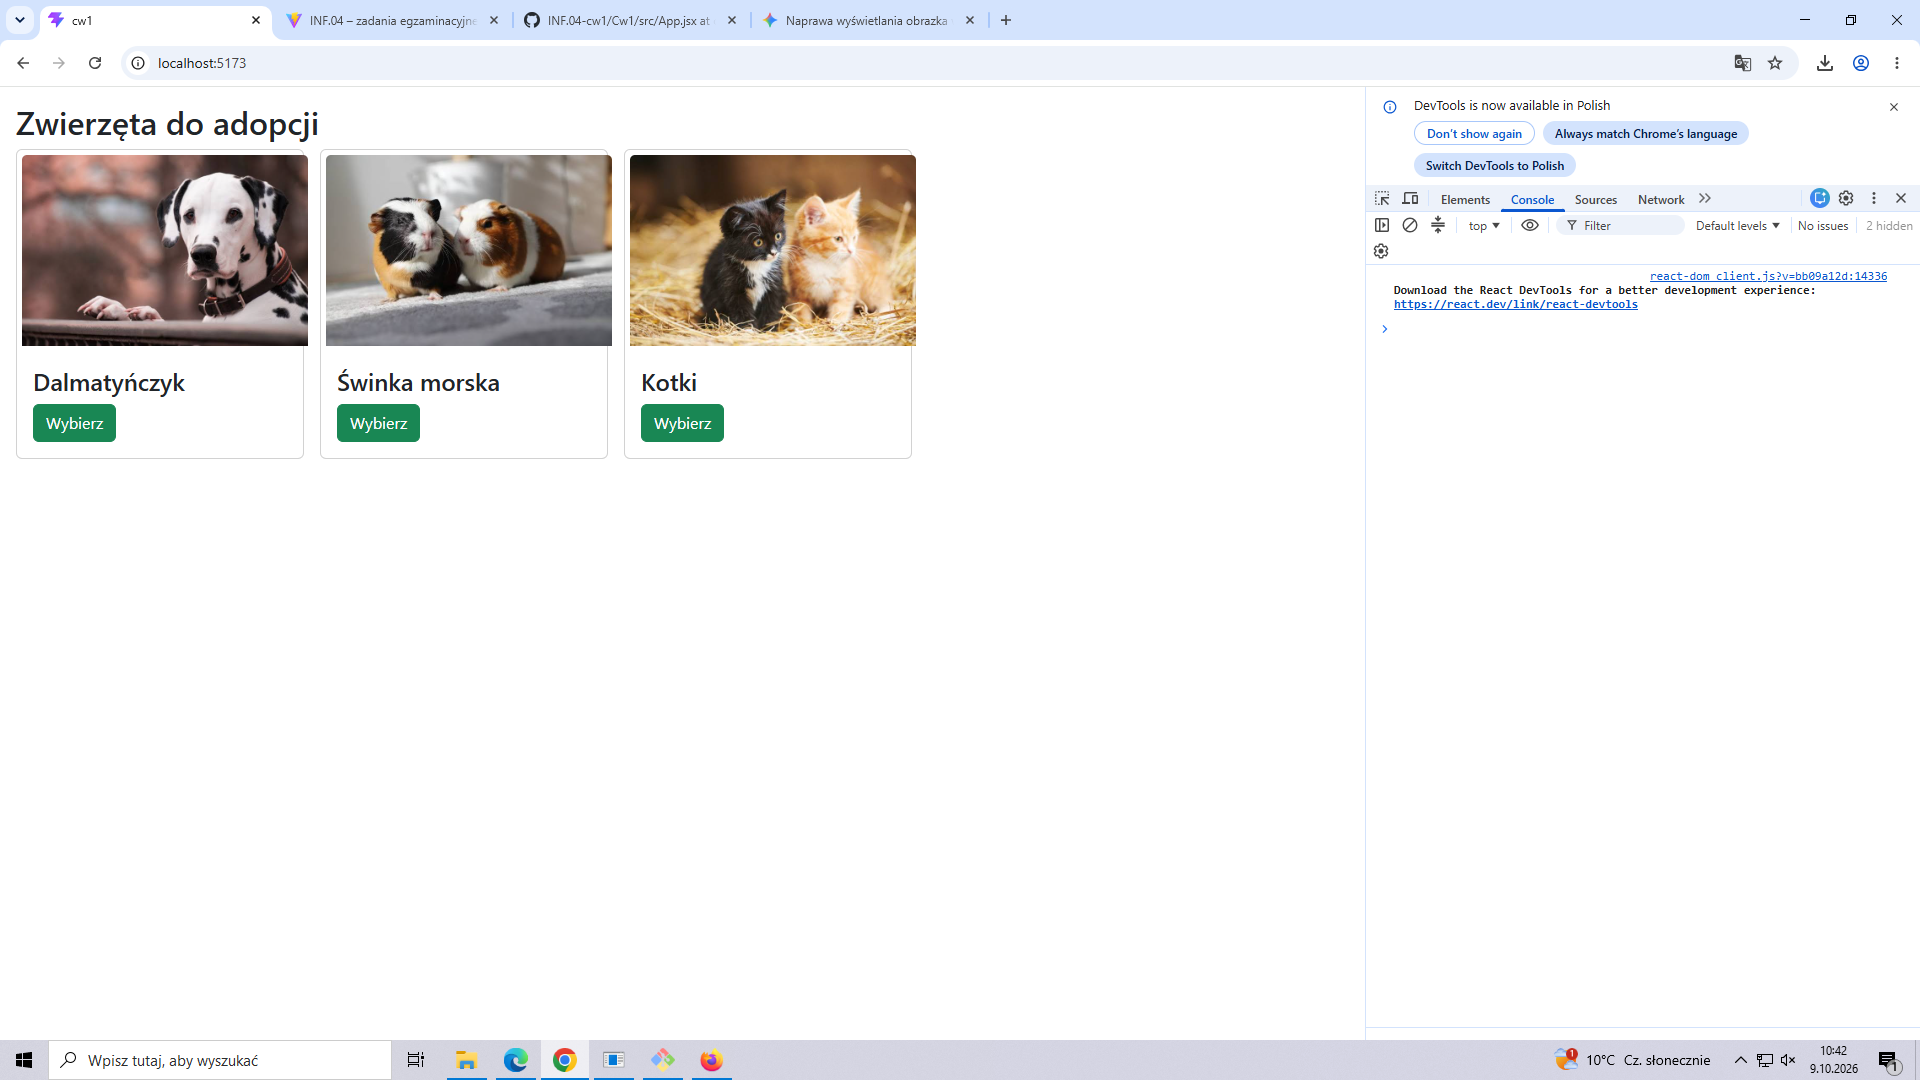
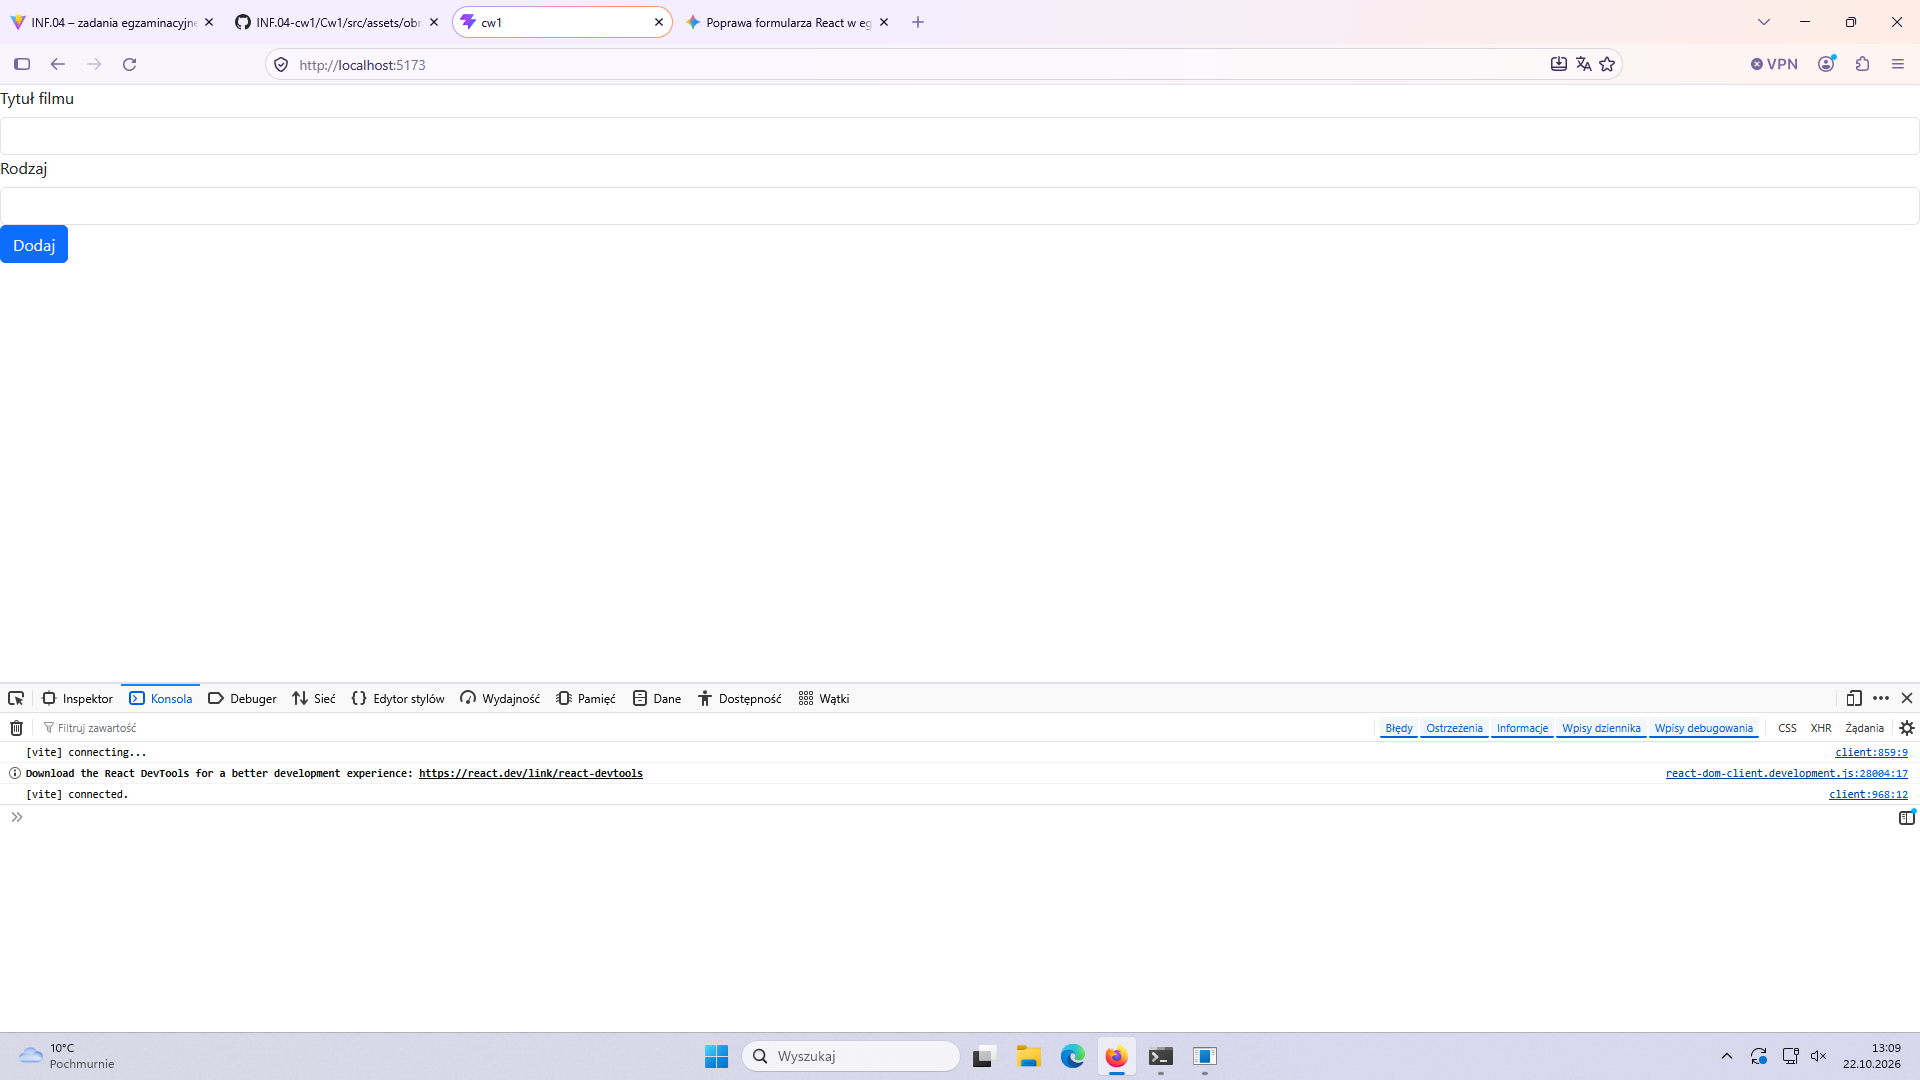
zrzuty

diff --git a/Cw1/src/App.jsx b/Cw1/src/App.jsx
@@ -6,13 +6,6 @@ const App = () => {
   const [title, setTitle] = useState();
   const [category, setCategory] = useState();
 
-    const [categories, setCategoriesd] = useState([
-    'Komedia',
-    'Obyczajowy',
-    'Sensacyjny',
-    'Horror'
-  ]);
-
   const onTitleChange = (event) => {
     setTitle(event.target.value);
   }
@@ -23,18 +16,18 @@ const App = () => {
 
   const onSubmit = (event) => {
     event.preventDefault();
-    console.log("Tytuł: ", title, " rodzaj: ", categories[category-1])
+    console.log(`tytul: ${title}; rodzaj: ${category}`)
   }
 
   return (
 <form onSubmit={onSubmit}> 
   <div className="form-group">
     <label htmlFor="filmTitle" className="form-label">Tytuł filmu</label> 
-    <input type="text" className="form-control" id="InputTitle" onChange={onTitleChange}/>
+    <input type="text" className="form-control" id="filmTitle" onChange={onTitleChange}/>
   </div> 
   <div className="form-group">
     <label htmlFor="filmCategory" className="form-label">Rodzaj</label>
-    <select className="form-control" id="SelectCategory" onChange={onCategoryChange}>
+    <select className="form-control" id="filmCategory" onChange={onCategoryChange}>
       <option value=""></option>
       <option value="1">Komedia</option>  
       <option value="2">Obyczajowy</option>   
@@ -42,7 +35,7 @@ const App = () => {
       <option value="4">Horror</option>                       
     </select>
   </div> 
-  <button type="submit" className="btn btn-primary">Success</button>
+  <button type="submit" className="btn btn-primary">Dodaj</button>
 </form>
   )
 }
